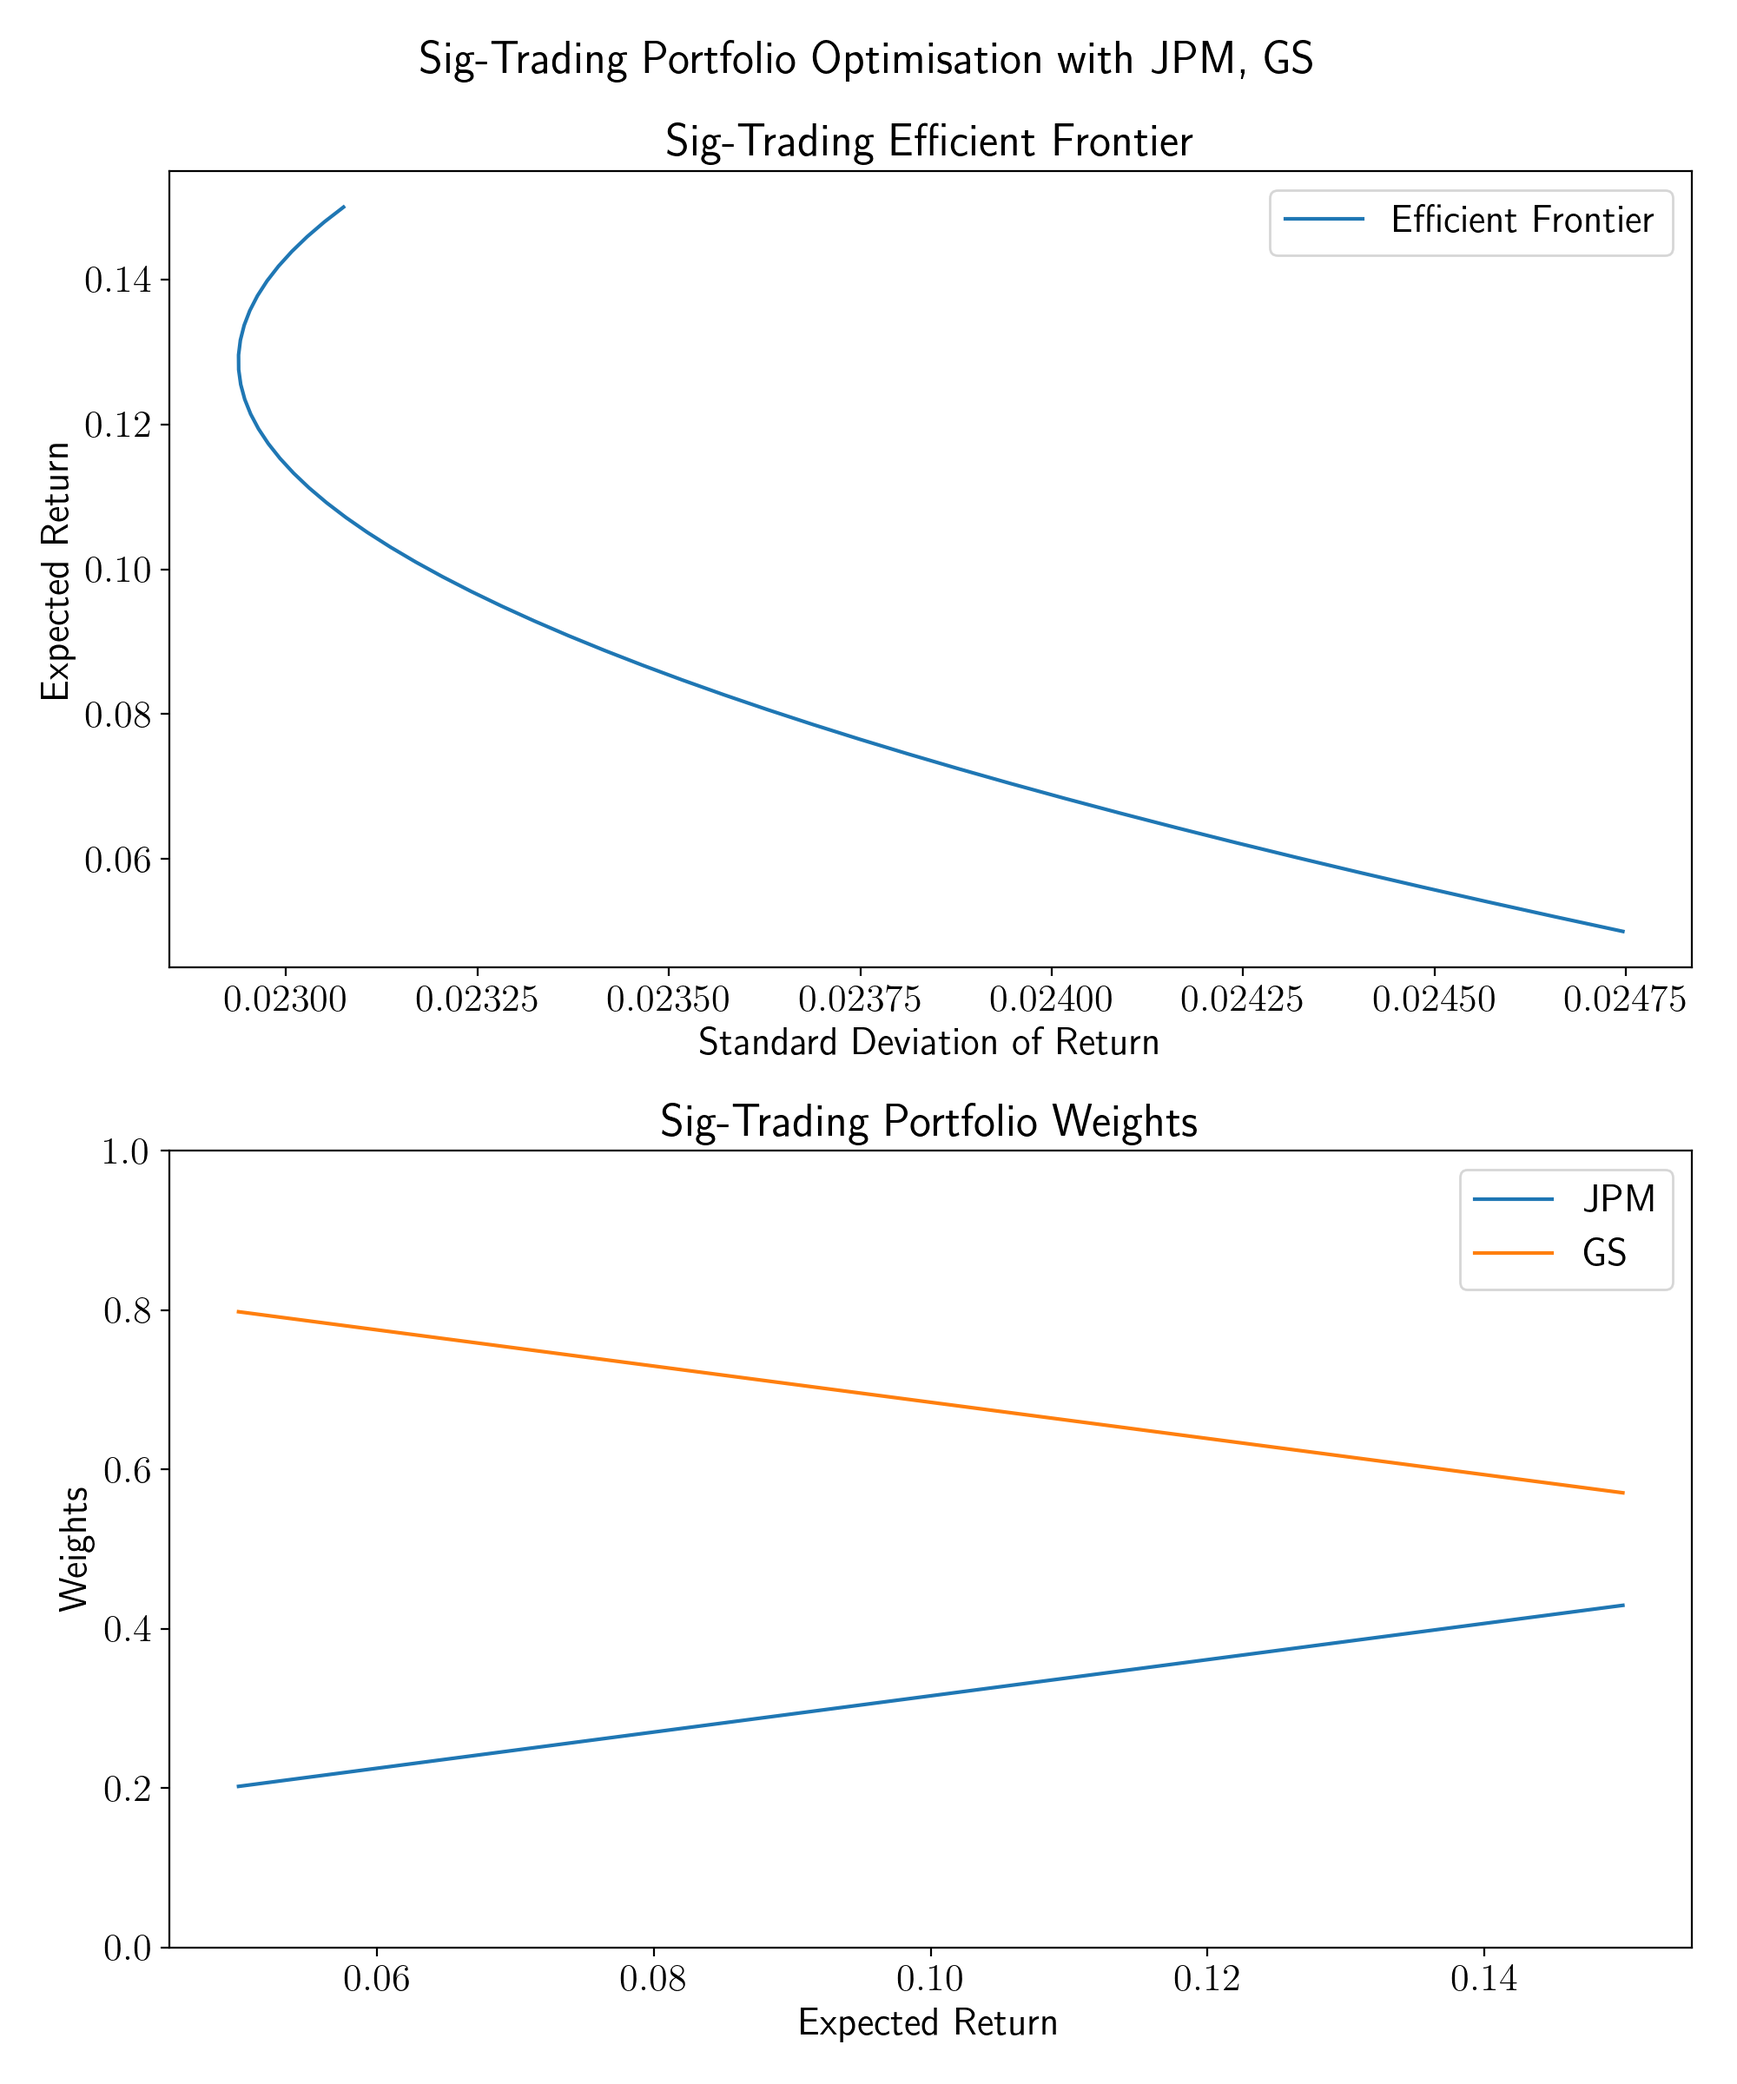
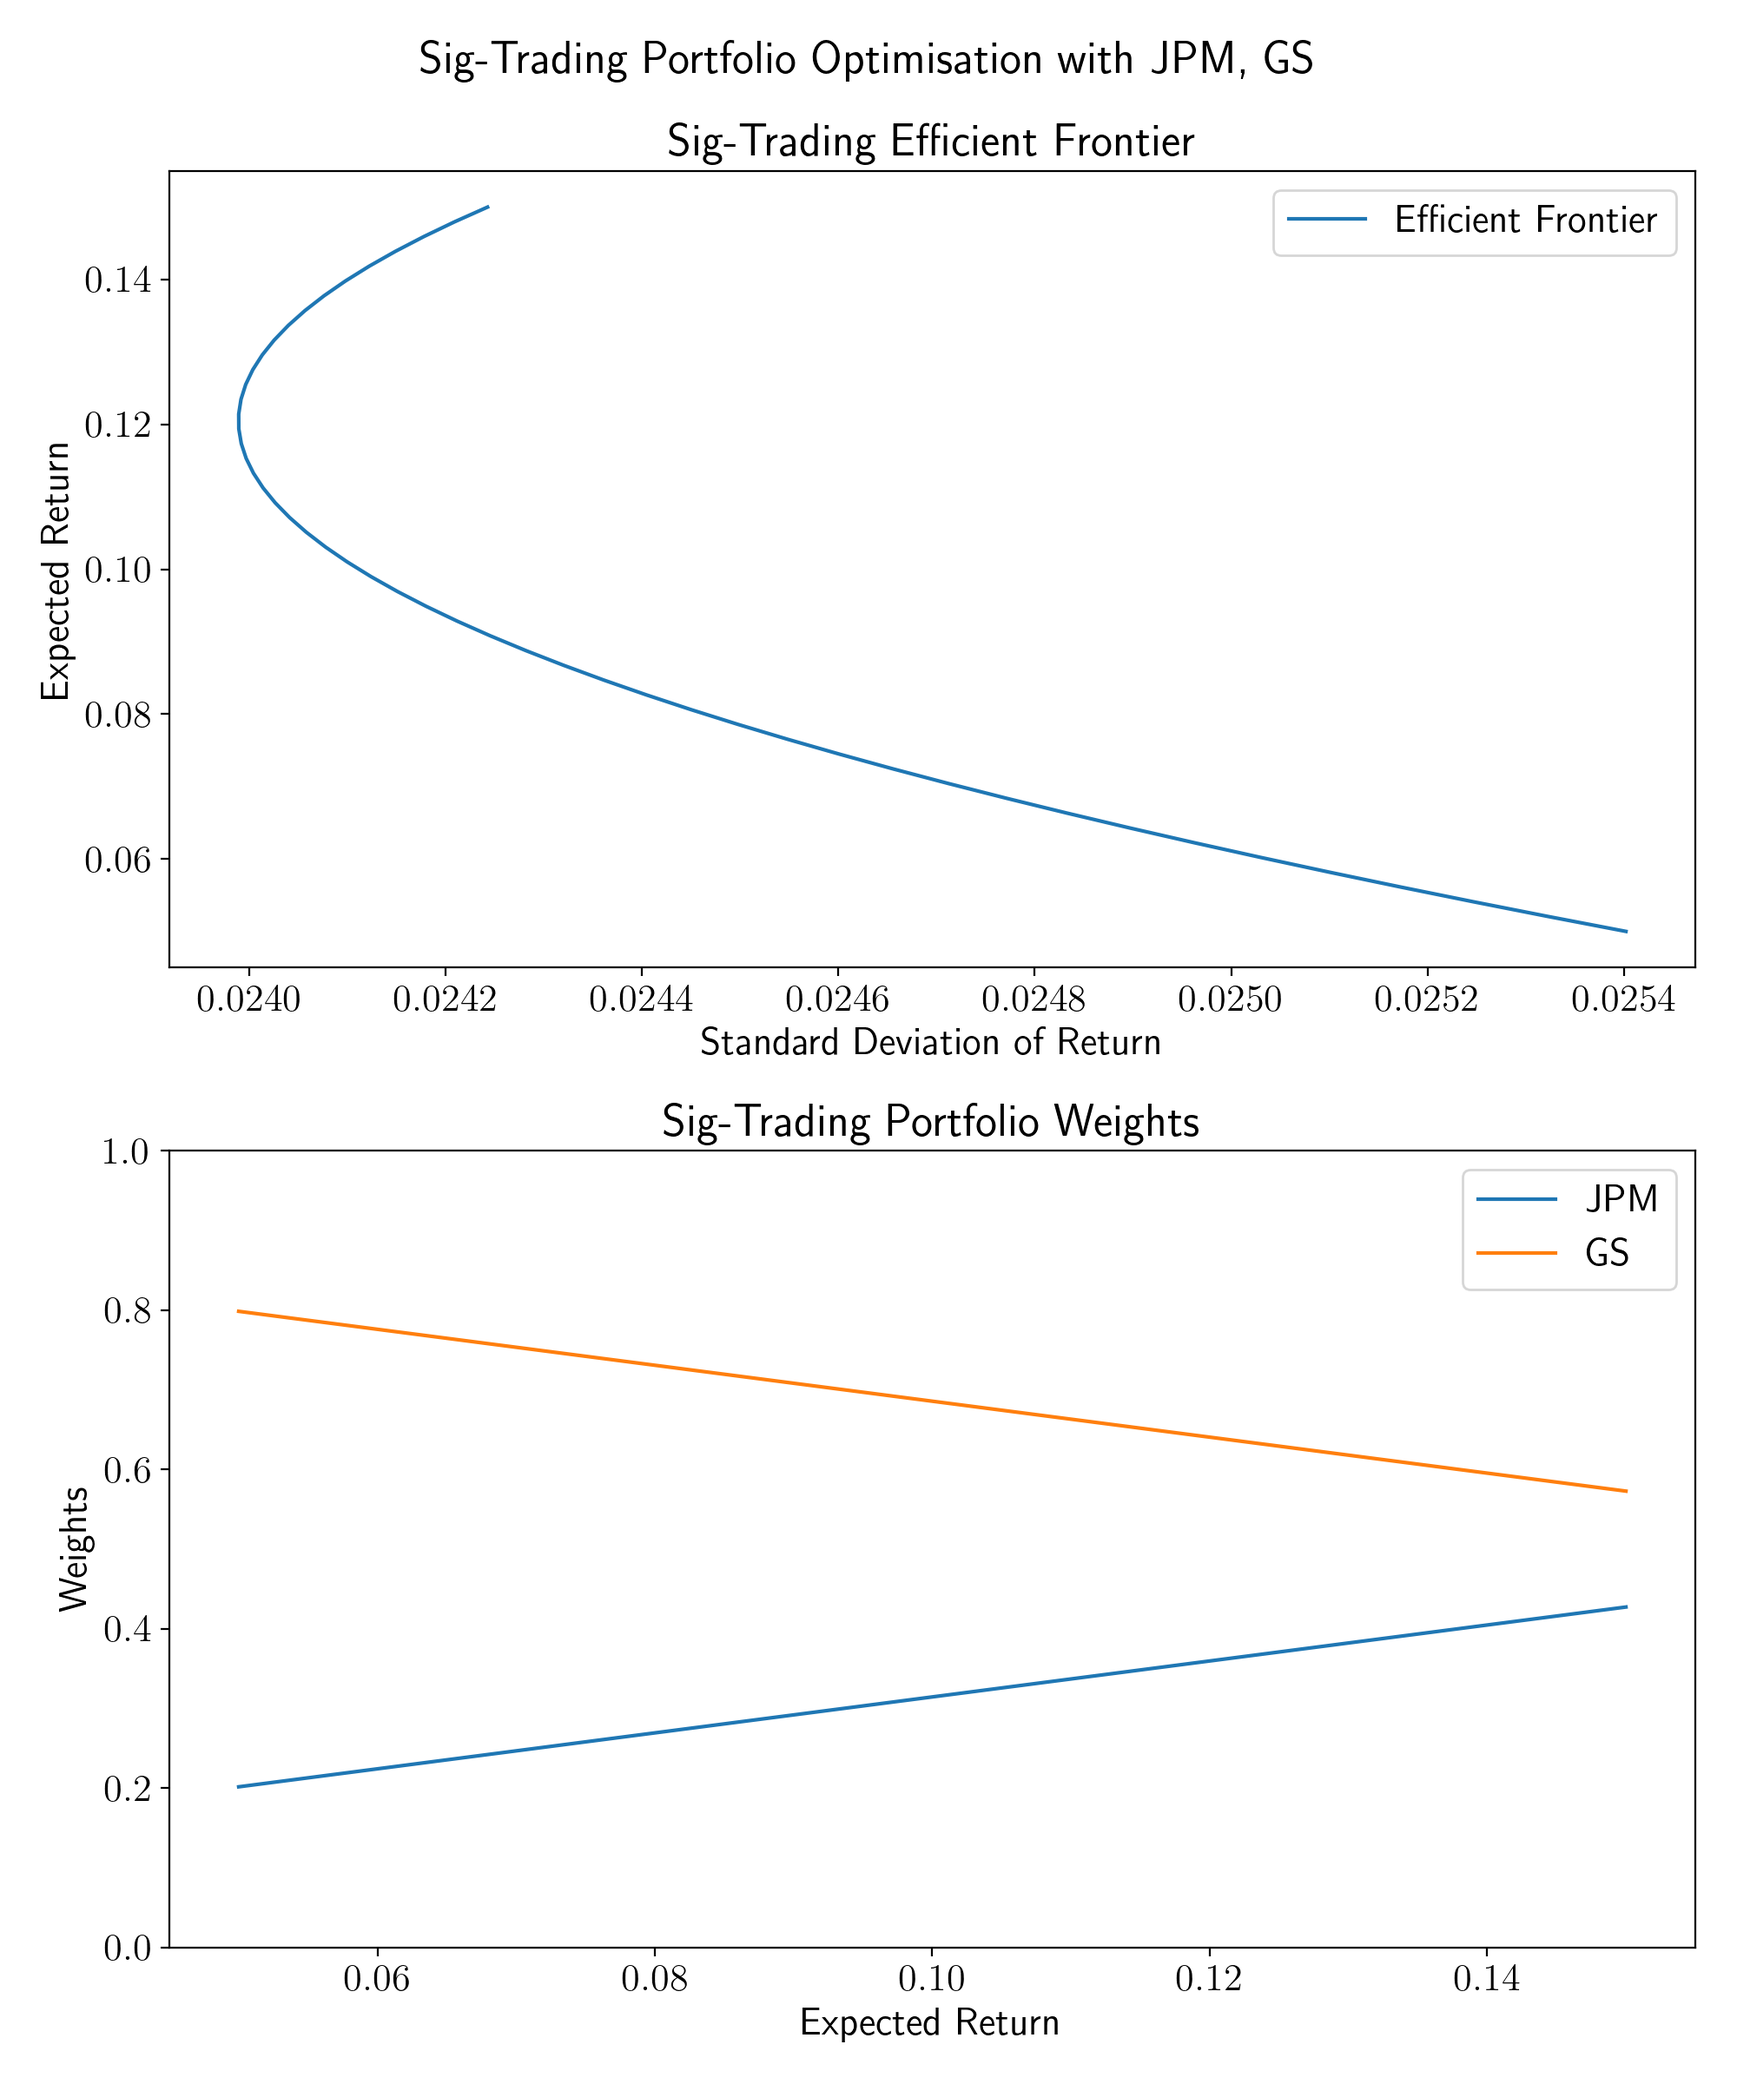
reformat plots and add pickling to make plot changes faster

diff --git a/optimisation/sig_trading_run.py b/optimisation/sig_trading_run.py
@@ -10,6 +10,7 @@ import pandas as pd
 import warnings
 import matplotlib.pyplot as plt
 import matplotlib
+import pickle
 
 matplotlib.rcParams.update({'text.usetex' : True, 'font.size': 16, 'axes.labelsize': 16, 'legend.fontsize': 16, 'xtick.labelsize': 16, 'ytick.labelsize': 16})
 
@@ -155,7 +156,13 @@ pnl_n2, var_n2, weight_n2 = combine_all(stocks, include_ffr=False, plot=True, fr
 pnl_f, var_f, weight_f = combine_all(stocks[:2], include_ffr=True, plot=True, frontier_interval=interval)
 pnl_f2, var_f2, weight_f2 = combine_all(stocks, include_ffr=True, plot=True, frontier_interval=interval)
 
-fig, ax = plt.subplots(1, figsize=(20, 10), dpi=150)
+with open('sig_trading_comparison_' + '_'.join(stocks) + '.pkl', 'wb') as f:
+    pickle.dump([pnl_n, var_n, weight_n, pnl_n2, var_n2, weight_n2, pnl_f, var_f, weight_f, pnl_f2, var_f2, weight_f2], f)
+
+with open('sig_trading_comparison_' + '_'.join(stocks) + '.pkl', 'rb') as f:
+    pnl_n, var_n, weight_n, pnl_n2, var_n2, weight_n2, pnl_f, var_f, weight_f, pnl_f2, var_f2, weight_f2 = pickle.load(f)
+
+fig, ax = plt.subplots(1, figsize=(15, 8), dpi=150)
 ax.plot(np.sqrt(np.array(var_n)), pnl_n, label=', '.join(stocks[:2]) + ' Without FFR')
 ax.plot(np.sqrt(np.array(var_f)), pnl_f, label=', '.join(stocks[:2]) + ' With FFR')
 ax.plot(np.sqrt(np.array(var_n2)), pnl_n2, label=', '.join(stocks) + ' Without FFR')
@@ -165,3 +172,4 @@ ax.set_xlabel('Standard Deviation of Return')
 ax.set_ylabel('Expected Return')
 ax.set_title('Sig-Trading Efficient Frontier - Comparison with and without FFR')
 fig.savefig('./plots/sig_trading_comparison_' + '_'.join(stocks) + '.png')
+
